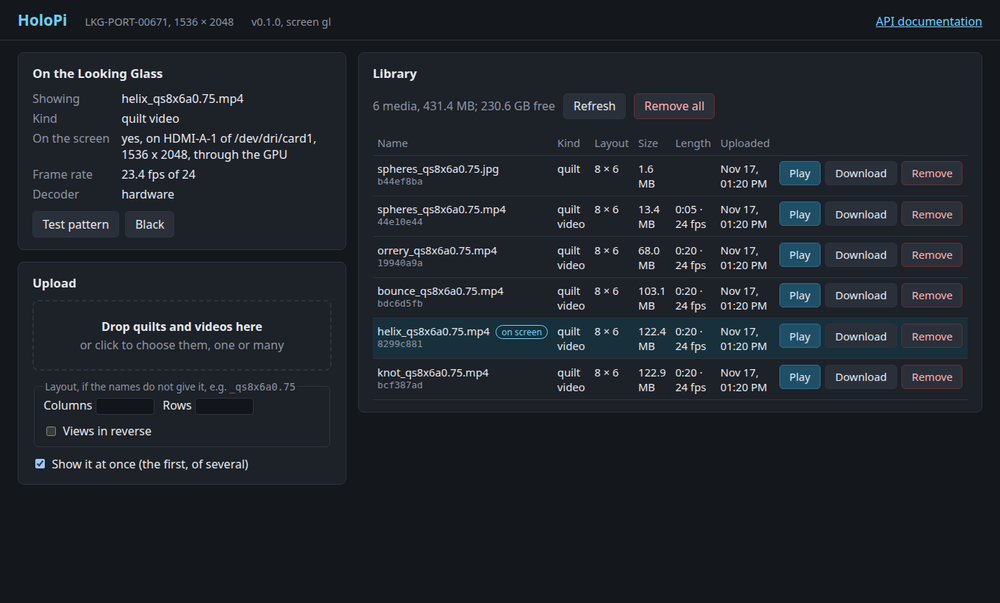
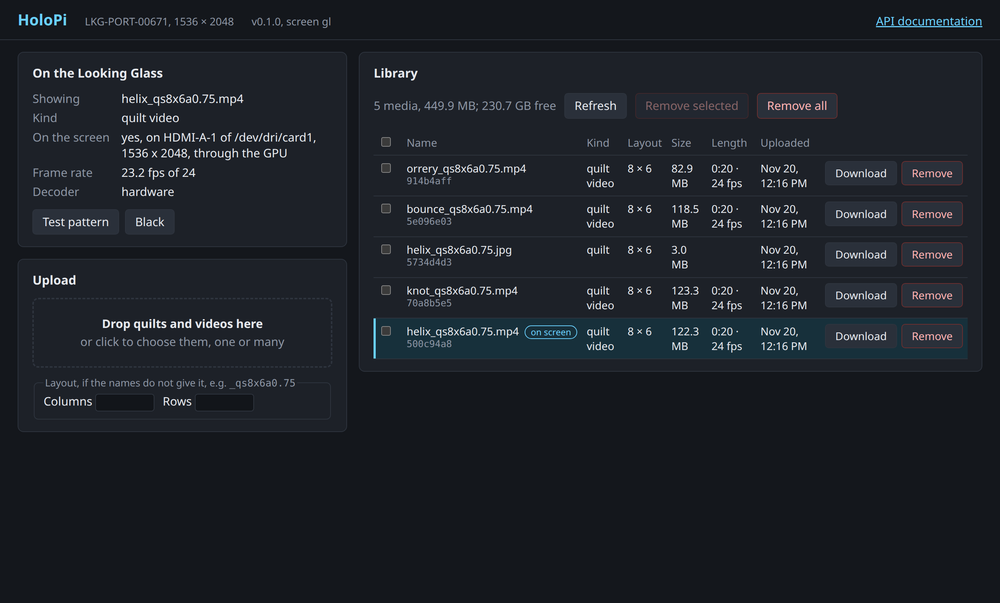
README: the web page's screenshot as it is now
No play button, boxes to tick, an upload with only a layout, and the
repo's quilts without spheres; the helix video on screen at 23.2 of 24
frames per second with the hardware decoder.

diff --git a/README.md b/README.md
@@ -159,7 +159,7 @@ Reboot. The login prompt is only of use with a keyboard and a user with a passwo
 
 The Pi serves a web page, on the same port as its API: http://holo.local:8095, or the Pi's address, e.g. http://192.168.100.41:8095. It shows what the Looking Glass shows, with a video's frame rate and decoder, and the media kept on the Pi: a click on a row shows it, the arrow keys show the one above or below, and each can be downloaded or removed, one, those ticked or all at once; quilts and videos dropped on it, one or many, are uploaded, and the first is shown at once. Its header links the API's documentation.
 
-<p align="center"><img src="docs/images/web-page.png" alt="HoloPi's web page: on the left, what the Looking Glass shows, the helix quilt video at 23.4 of 24 frames per second with the hardware decoder, and the upload, an area to drop files on with their layout; on the right, the library of six quilts and quilt videos, each with Play, Download and Remove." width="700"></p>
+<p align="center"><img src="docs/images/web-page.png" alt="HoloPi's web page: on the left, what the Looking Glass shows, the helix quilt video at 23.2 of 24 frames per second with the hardware decoder, and the upload, an area to drop files on with their layout; on the right, the library of five quilts and quilt videos, each row with a box to tick, Download and Remove, the helix video's row marked on screen." width="700"></p>
 
 It is for trying things at once, without knowing the API. Everything it does goes through the API, which a program uses, as below.
 

diff --git a/docs/pr/web-page-screenshot.md b/docs/pr/web-page-screenshot.md
@@ -1,0 +1,13 @@
+# The Web Page's Screenshot
+
+Branch `web-page-screenshot`.
+
+## Goal
+
+Show the web page as it is in the README's screenshot, `docs/images/web-page.png`: the boxes to tick of #9, the rows without a play button of #12, the upload with only a layout of #13, and the quilts of #11, without `spheres`.
+
+## Decisions
+
+**Taken from the real Pi, with the repo's quilts only.** The four scenes and the helix quilt were uploaded to the Pi under their names, and the helix video played: the frame rate, the decoder and the free space are the Pi's. The Pi's library holds other media too, which a public README should not show, so the page ran on a computer, through a proxy that listed only those five. The uploads went once the picture was taken.
+
+**The same size as before.** 1000 x 603, rendered at twice the resolution in a window 1360 pixels wide and scaled down, so that the table fits and the text stays sharp.
